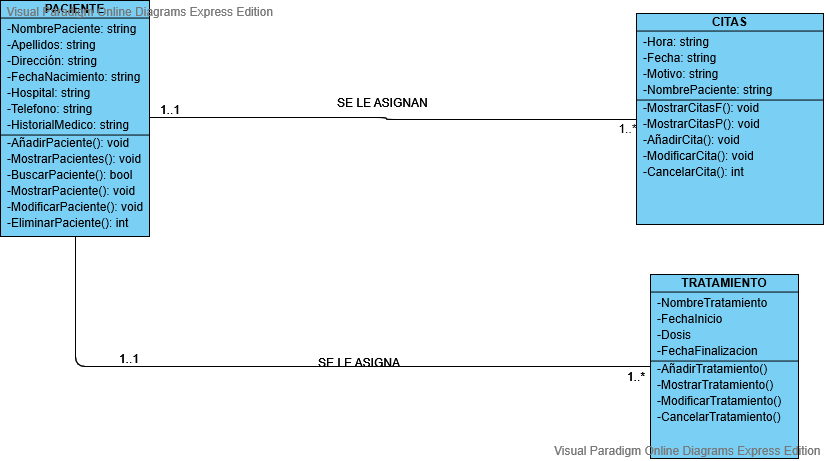
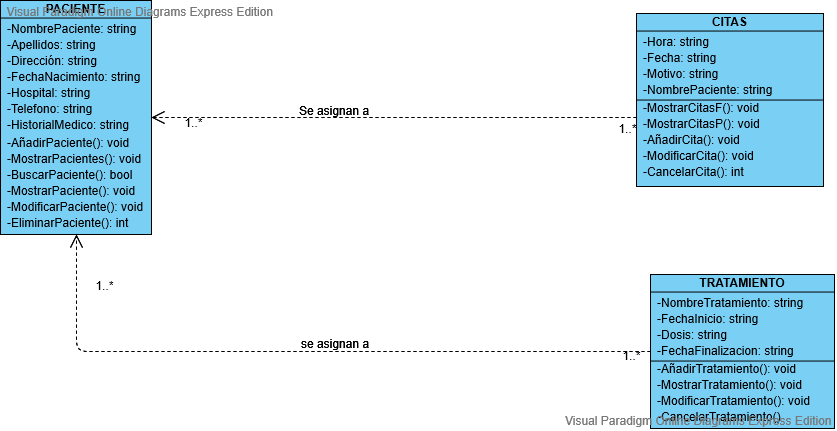
Correccion diagrama de clases

Changed region(s): [[0.0, 0.0, 0.9988, 0.5731], [0.0908, 0.5731, 0.9988, 1.0]]

diff --git a/diagrama_Clases/descripcion.md b/diagrama_Clases/descripcion.md
@@ -15,12 +15,12 @@
 
 **Métodos**:
 
-	- AñadirPaciente(): Funcion que añade un nuevo paciente
-	- MostrarPacientes():	Funcion que muestra la lista de los pacientes
-	- BuscarPaciente(): Funcion que busca a un paciente
-	- MostrarPaciente(): Funcion que muestra la informacion del paciente
-	- ModificarPaciente(): Funcion que modifica los datos personales del paciente
-	- EliminarPaciente(): Funcion que elimina a un paciente
+	- AñadirPaciente():		Funcion que añade un nuevo paciente.
+	- MostrarPacientes(): 	Funcion que muestra la lista de los pacientes.
+	- BuscarPaciente(): 	Funcion que busca a un paciente.
+	- MostrarPaciente(): 	Funcion que muestra la informacion del paciente.
+	- ModificarPaciente(): 	Funcion que modifica los datos personales del paciente.
+	- EliminarPaciente(): 	Funcion que elimina a un paciente.
 
 ###	Clase:	Cita
 
@@ -35,10 +35,10 @@
 
 **Métodos**:
 
-	- MostrarCitasF(): 	Funcion que muestra todas las citas en un día determinado
-	- MostrarCitasP(): 	Funcion que muestra todas las citas de un paciente.
+	- MostrarCitasF():	Funcion que muestra todas las citas en un día determinado
+	- MostrarCitasP():	Funcion que muestra todas las citas de un paciente.
 	- AñadirCita():		Funcion que añade una nueva cita
-	- ModificarCita(): 	Funcion que modifica una cita
+	- ModificarCita():	Funcion que modifica una cita
 	- CancelarCita():	Funcion que cancela una cita
 
 
@@ -51,11 +51,11 @@
 	Variable: NombreTratamiento 	Tipo: string 		Descripción: Nombre del tratamiento
 	Variable: FechaInicio 			Tipo: string 		Descripción: Fecha inicio del tratamiento
 	Variable: Dosis				 	Tipo: int			Descripción: Dosis del tratamiento
-	Variable: FechaFinalizacion 	Tipo: fecha 		Descripción: Fecha fin del tratamiento
+	Variable: FechaFinalizacion 	Tipo: string 		Descripción: Fecha fin del tratamiento
 
 **Métodos**:
 
-	- AñadirTratamiento():		Funcion que añade a un paciente un nuevo tratamiento
-	- MostrarTratamiento():		Funcion que muestra un tratamiento
-	- ModificarTratamiento():	Funcion que modifica un tratamiento
-	- CancelarTratamiento():	Funcion que cancela un tratamiento
+	- AddTratamiento():			Funcion que añade a un paciente un nuevo tratamiento.
+	- mostrarTratamiento():		Funcion que muestra un tratamiento.
+	- ModificarTratamiento():	Funcion que modifica un tratamiento.
+	- CancelarTratamiento():	Funcion que cancela un tratamiento.
